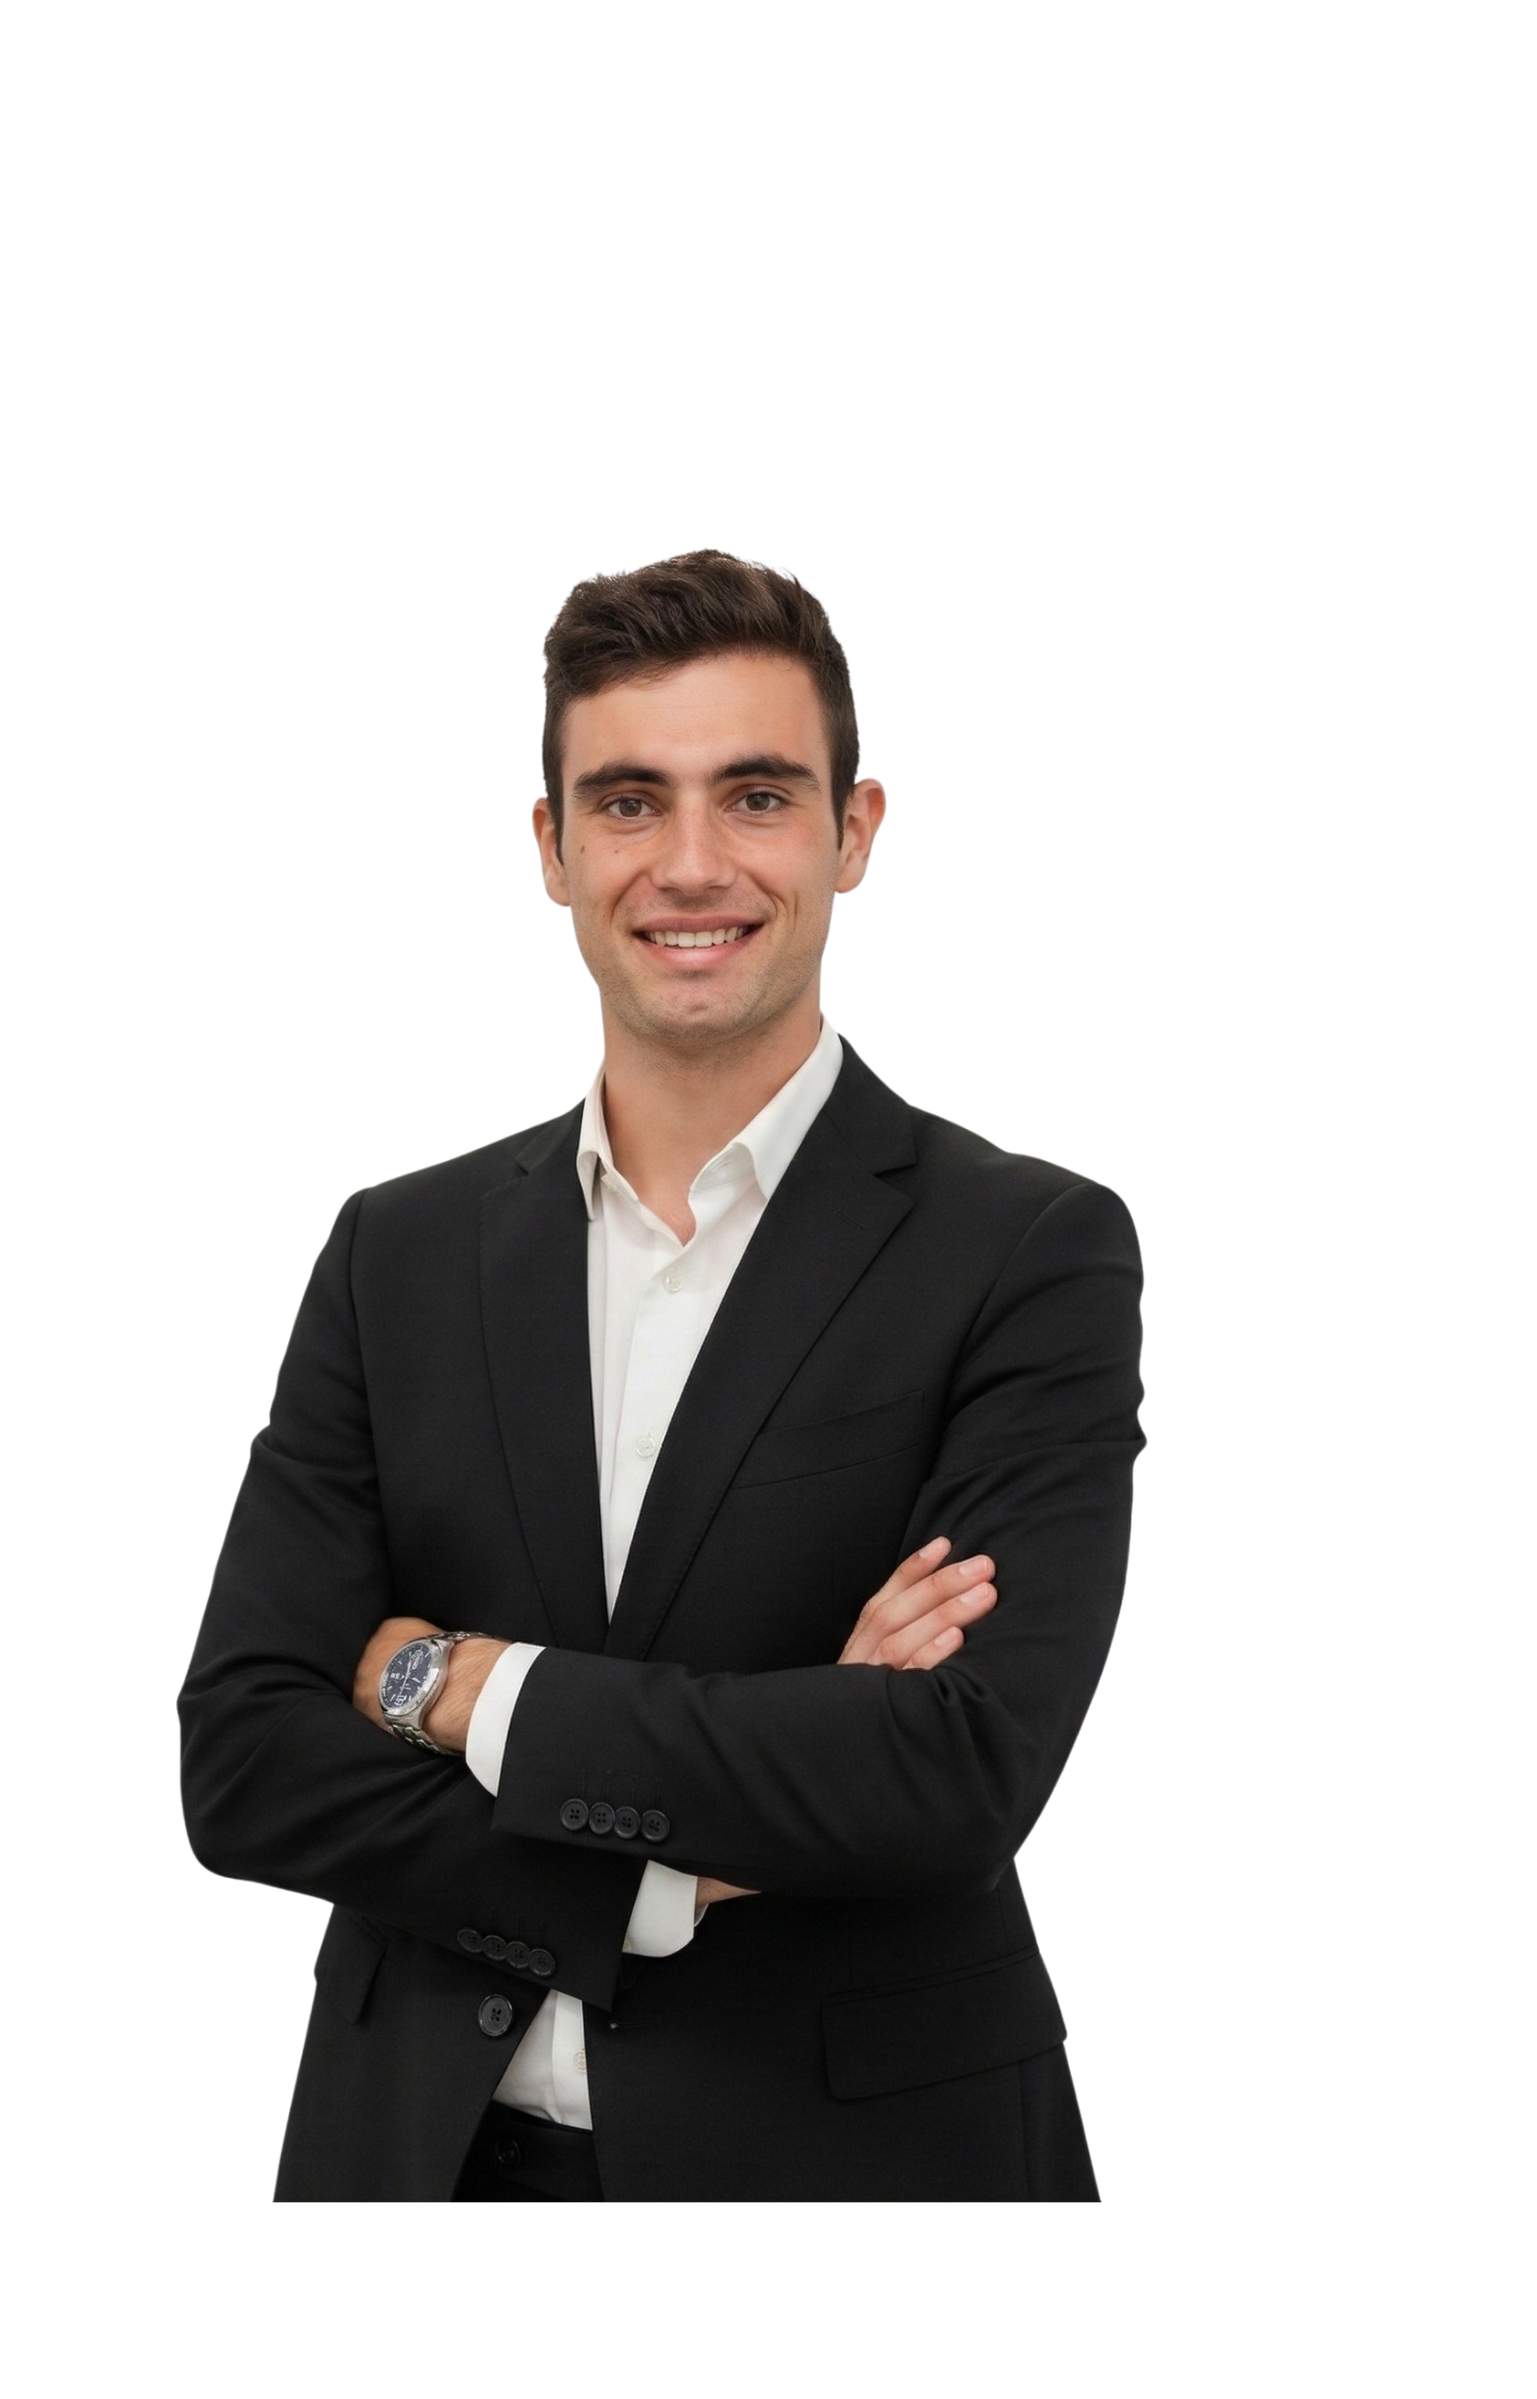
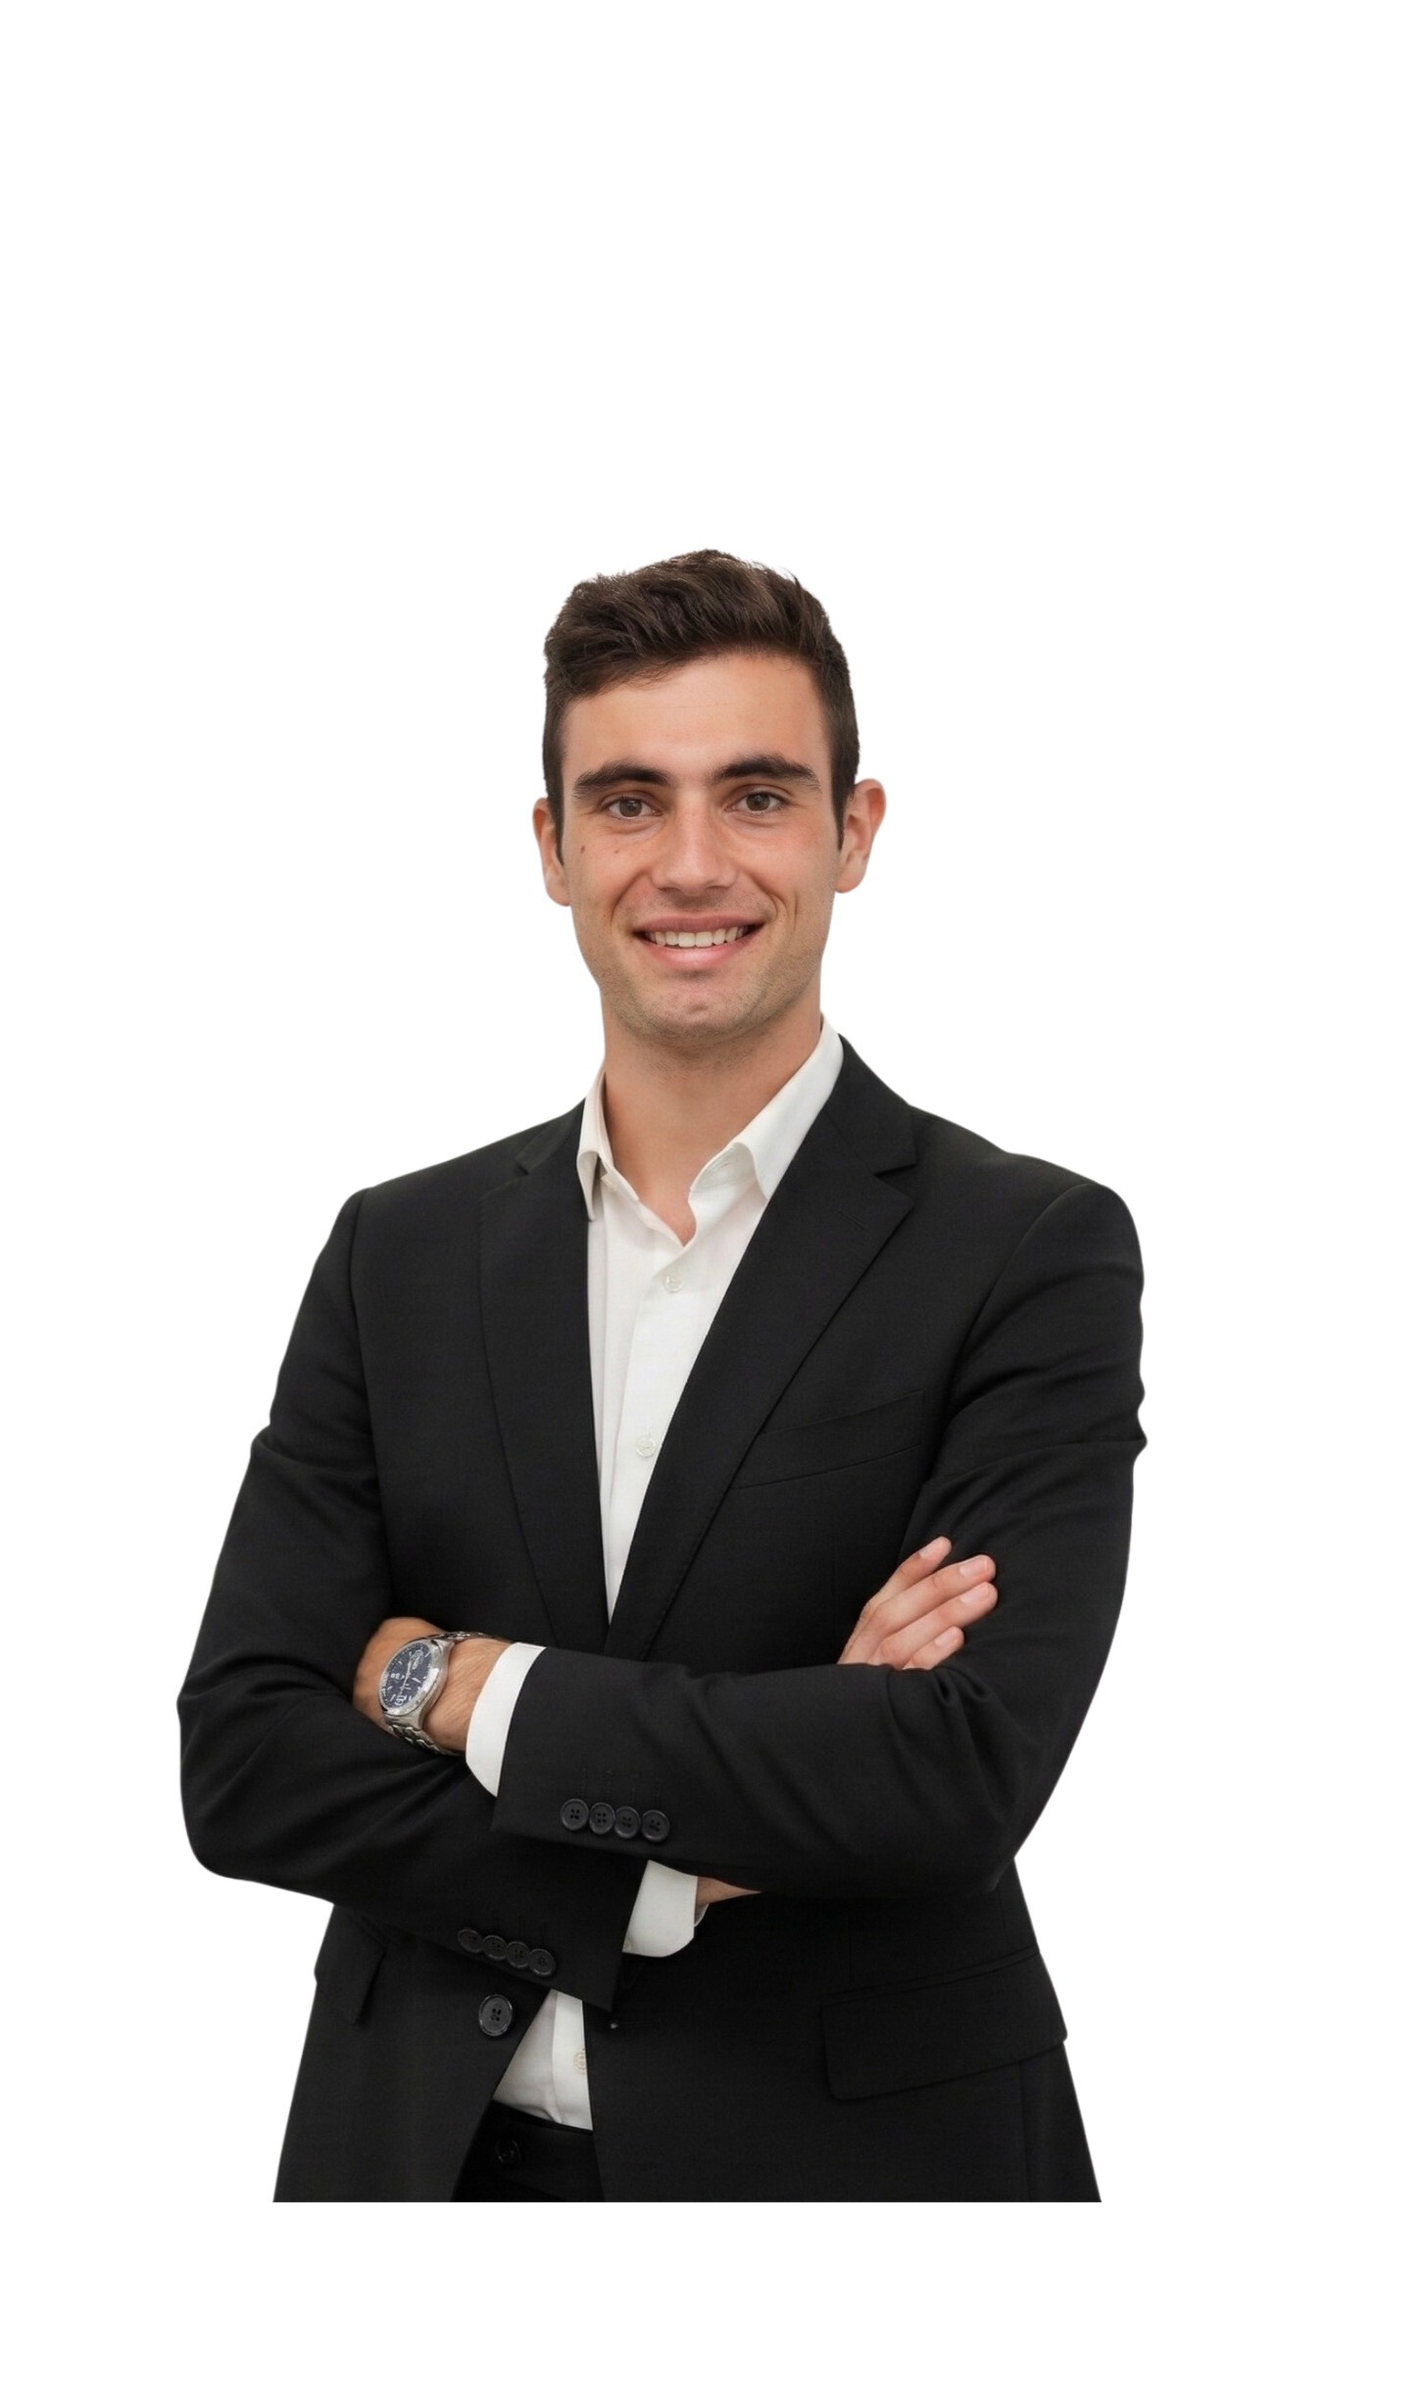
definitiva sistemazione tasti 2.91

diff --git a/src/components/ProfileCard/ProfileCard.css b/src/components/ProfileCard/ProfileCard.css
@@ -101,9 +101,9 @@ transform: translate3d(0, 0, 0.1px) rotateX(var(--rotate-x)) rotateY(var(--rotat
 .pc-avatar-content .avatar {
   width: 100%;
   position: absolute;
-  left: 50%;
-  transform: translateX(-50%);
-  bottom: -65px;
+  left:49%;
+  transform: translateX(-49%);
+  bottom: -100px;
   filter: drop-shadow(0 10px 20px rgba(0,0,0,0.5));
   -webkit-mask-image: linear-gradient(to bottom, black 70%, transparent 95%);
   mask-image: linear-gradient(to bottom, black 70%, transparent 95%);
